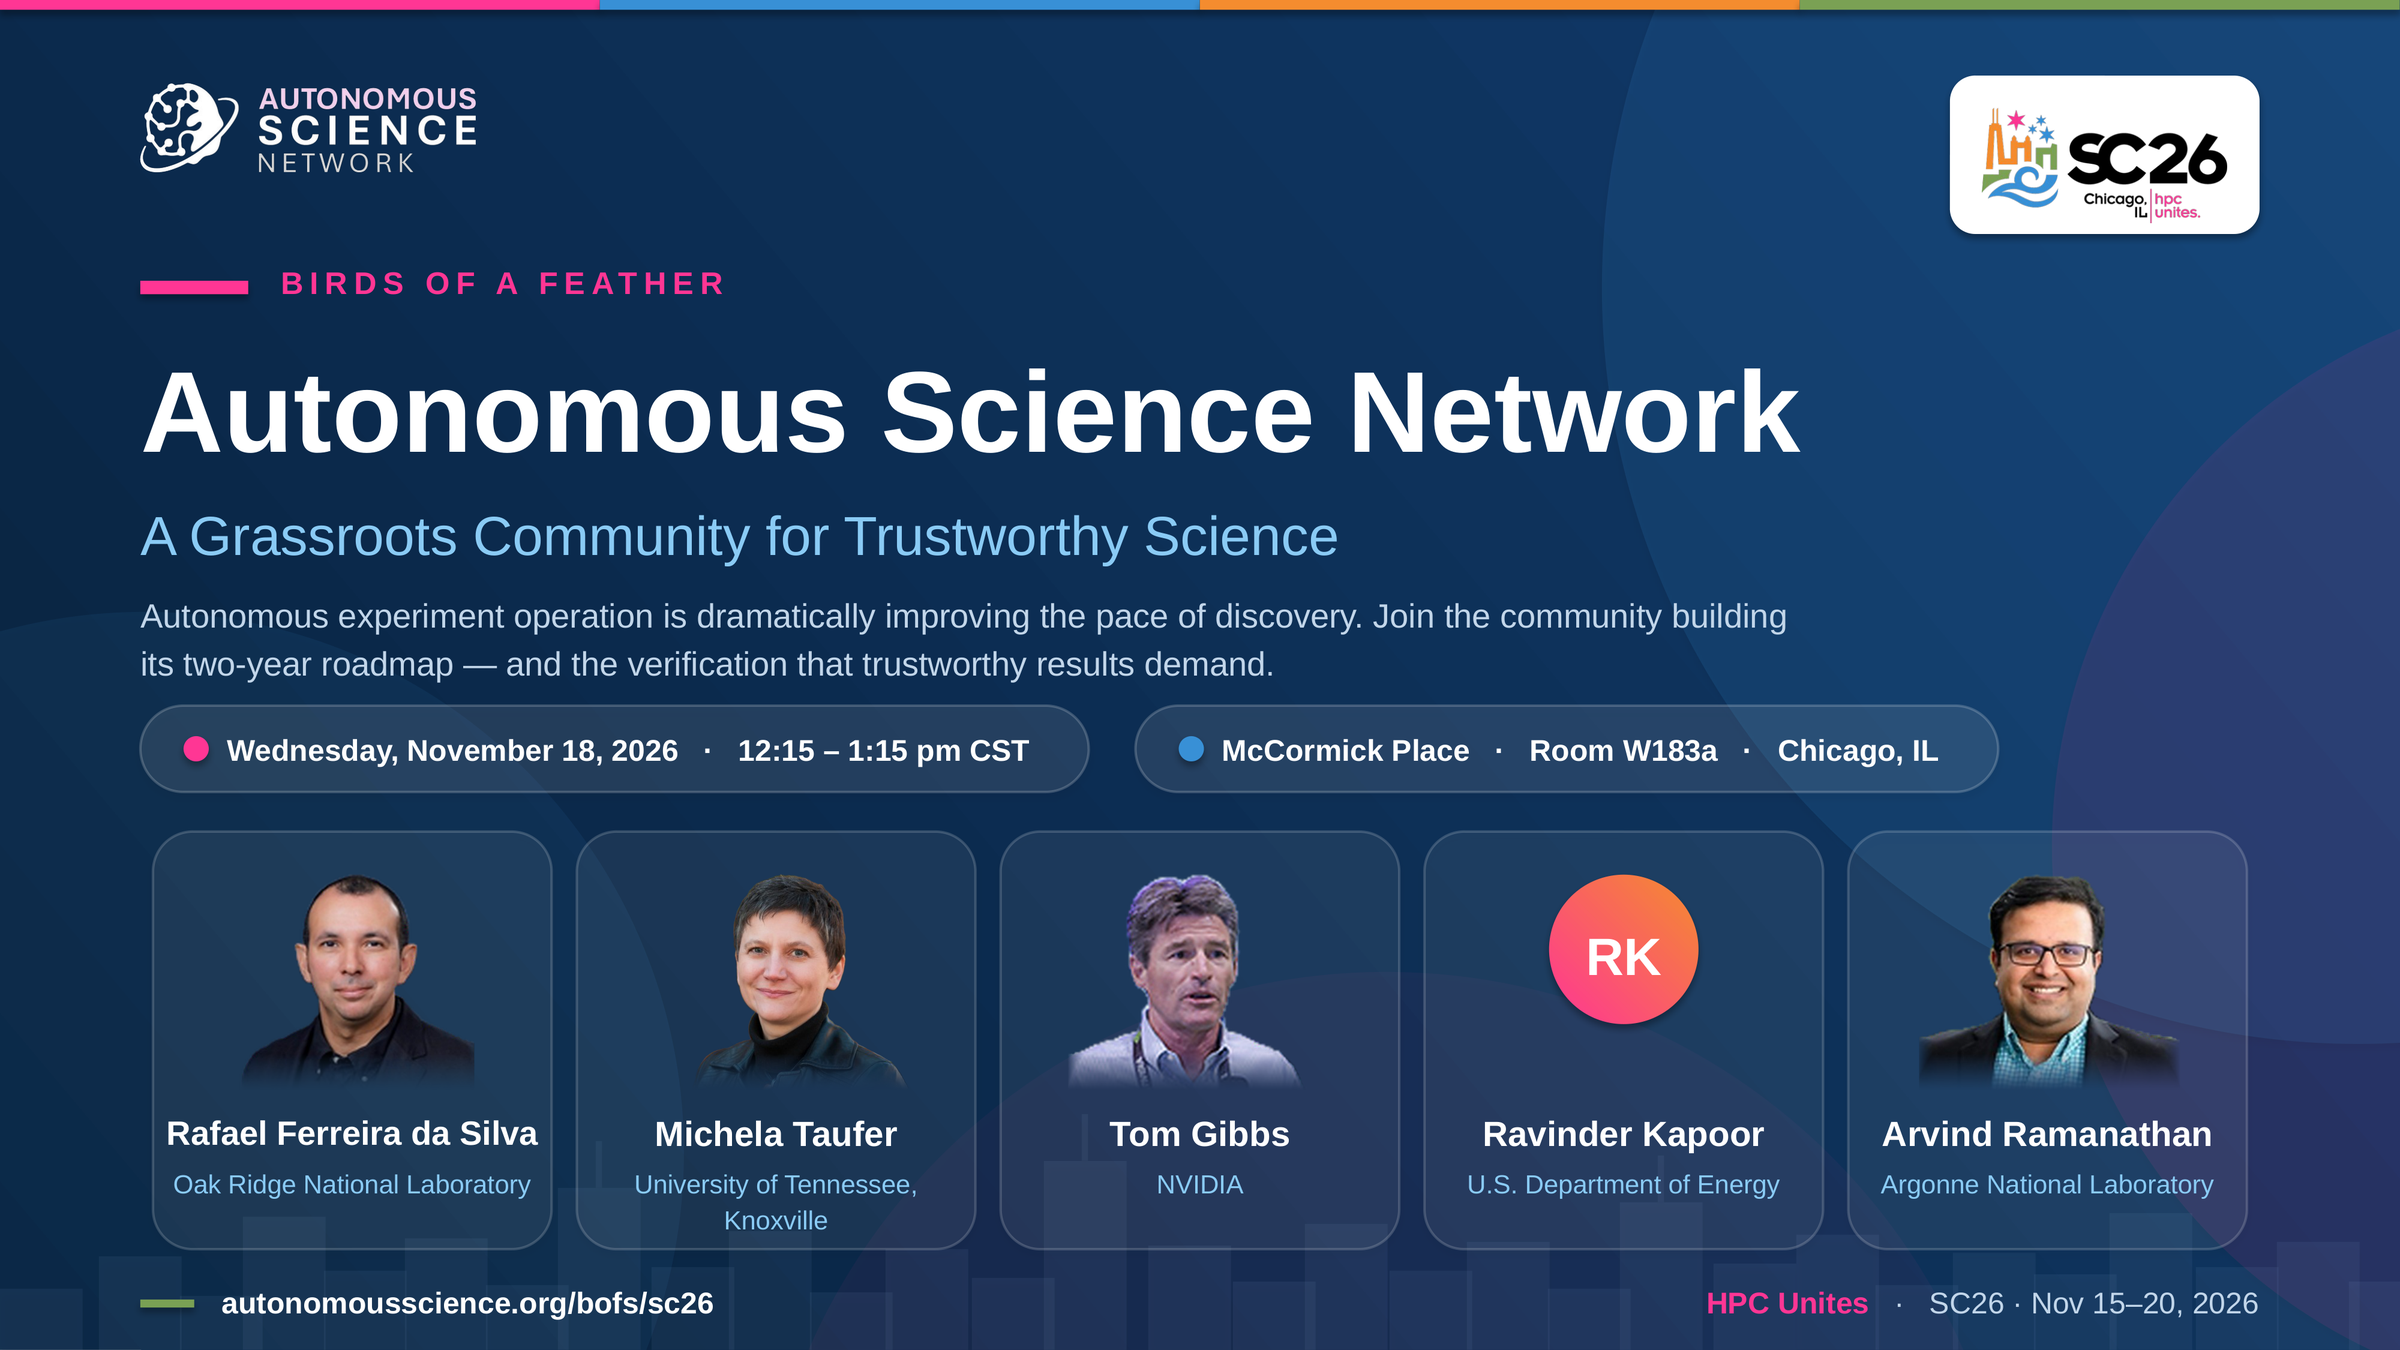
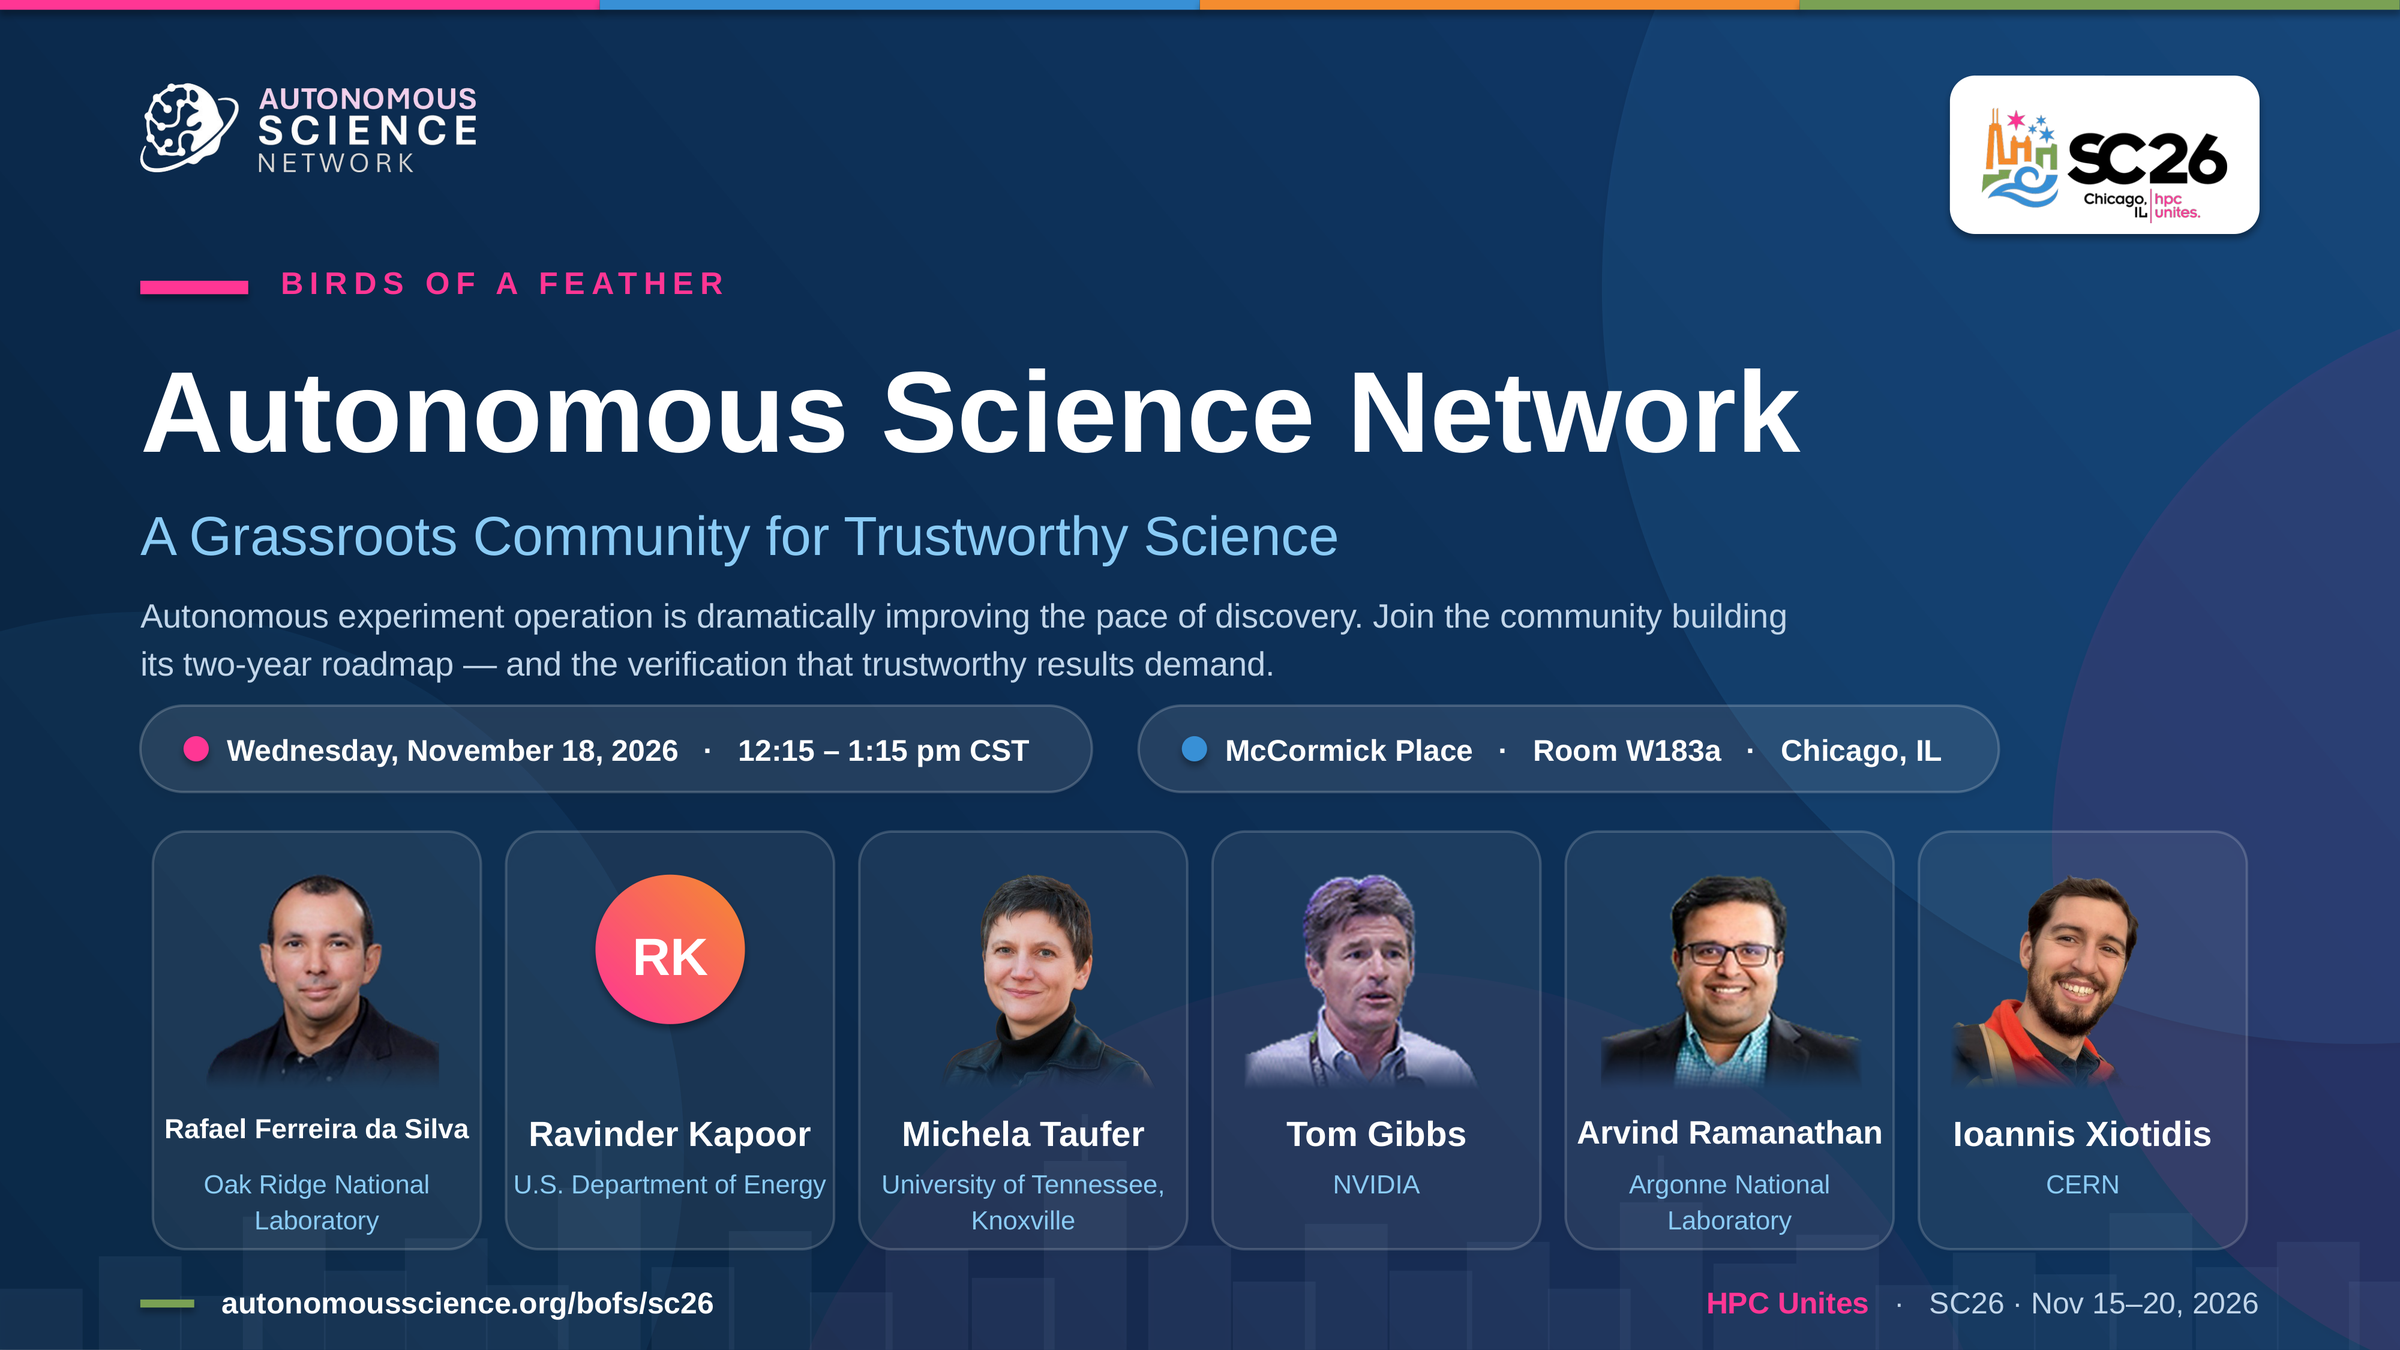
updates

Changed region(s): [[0.0625, 0.6222, 0.9062, 0.9333], [0.5, 0.5289, 0.7188, 0.56], [0.75, 0.5289, 0.8125, 0.5911]]

diff --git a/_layouts/bof.html b/_layouts/bof.html
@@ -10,7 +10,9 @@ else is driven by front matter:
   image          Banner image shown below the intro card
   image_alt      Alt text for the banner (default: the page title)
   themes         List of strings rendered as the "Discussion themes" card
-  agenda         List of { time, title, talks: [ { title, speaker } ] }
+  agenda         List of { time, title, speaker, talks: [ { title, speaker } ] }
+                 — `speaker` names a single presenter for the slot; within `talks`,
+                 `title` is optional, so a speaker with no title yet still renders
   event_logo     Logo shown at the top of the sidebar
   event_date     YYYY-MM-DD; formatted for display, and used on /bofs for
                  ordering and the upcoming/past badge
@@ -63,12 +65,16 @@ else is driven by front matter:
               <div class="agenda-time">{{ item.time }}</div>
               <div>
                 <strong>{{ item.title }}</strong>
+                {% if item.speaker %}
+                <div class="text-muted agenda-speaker">{{ item.speaker }}</div>
+                {% endif %}
                 {% if item.talks %}
                 <div class="agenda-talks">
                   {% for talk in item.talks %}
                   <div class="agenda-talk">
-                    <strong>{{ talk.title }}</strong><br />
+                    {% if talk.title %}<strong>{{ talk.title }}</strong><br />
                     <span>{{ talk.speaker }}</span>
+                    {% else %}<strong>{{ talk.speaker }}</strong>{% endif %}
                   </div>
                   {% endfor %}
                 </div>

diff --git a/_bofs/sc26.html b/_bofs/sc26.html
@@ -23,6 +23,21 @@ themes:
   - What does end-to-end verification of an autonomous discovery actually require, and who certifies it?
   - Which milestones from the 2025 roadmap held up, which need reframing, and what is still open?
   - How do we coordinate agents across institutional boundaries under zero-trust assumptions?
+agenda:
+  - time: 12:15pm CST
+    title: Introduction and Roadmap Updates
+    speaker: Rafael Ferreira da Silva, Oak Ridge National Laboratory
+  - time: 12:25pm CST
+    title: Lightning Talks
+    talks:
+      - title: View from DOE on Autonomous Science and Robotics
+        speaker: Ravinder Kapoor, U.S. Department of Energy
+      - speaker: Michela Taufer, University of Tennessee, Knoxville
+      - speaker: Tom Gibbs, NVIDIA
+      - speaker: Arvind Ramanathan, Argonne National Laboratory
+      - speaker: Ioannis Xiotidis, CERN
+  - time: 1:05pm CST
+    title: Open Discussion
 supporters:
   - name: ORNL
     logo: https://map.ornl.org/art/logo.png

diff --git a/assets/css/styles.css b/assets/css/styles.css
@@ -578,6 +578,11 @@ a:hover {
   font-size: 0.9rem;
 }
 
+.agenda-speaker {
+  margin-top: 0.15rem;
+  font-size: 0.95em;
+}
+
 .agenda-talks {
   display: grid;
   gap: 0.7rem;
